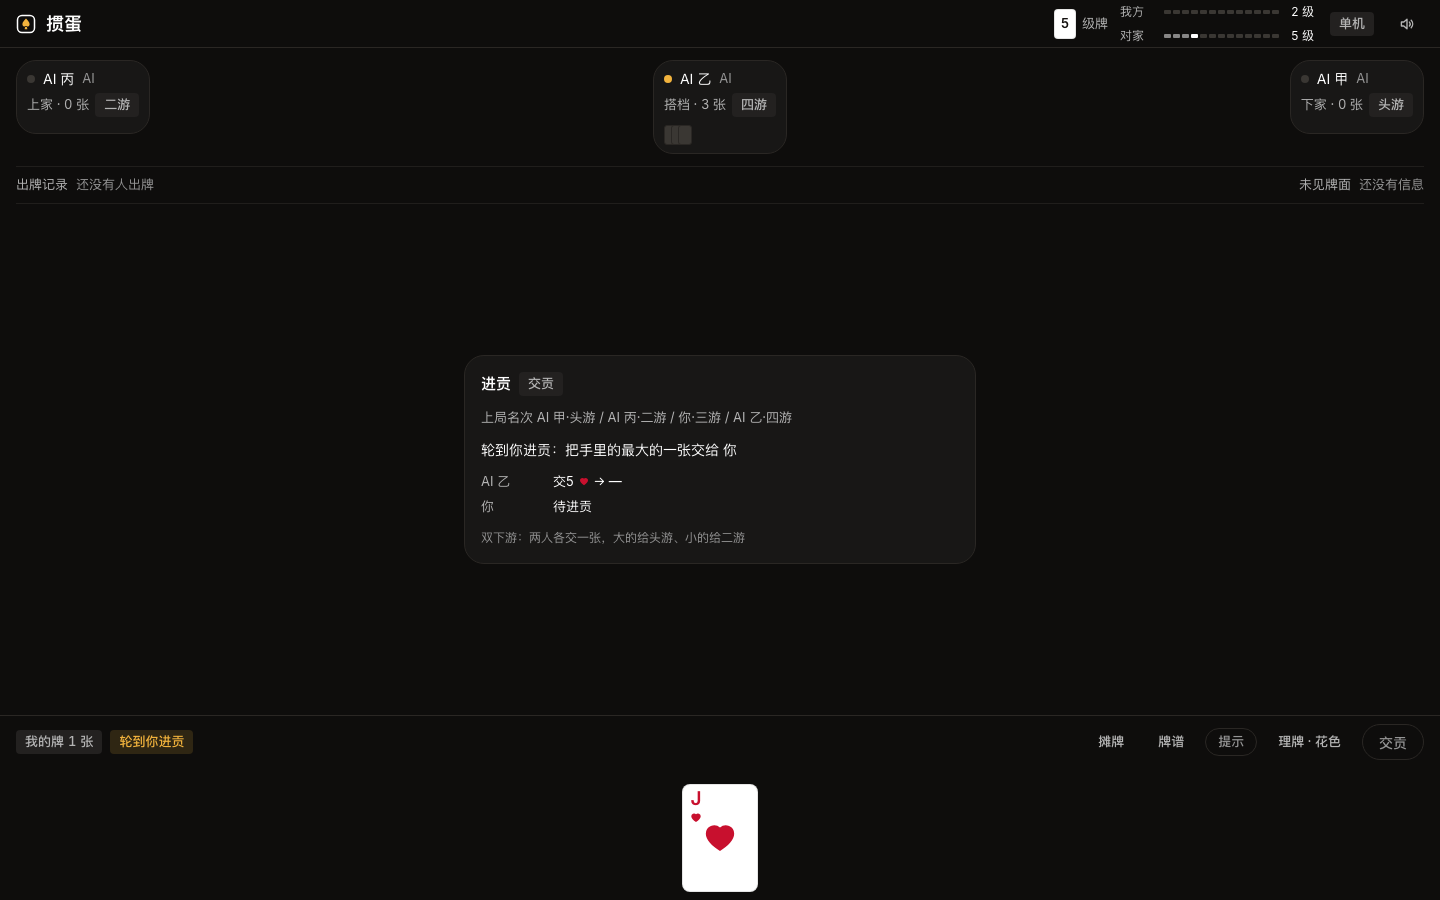
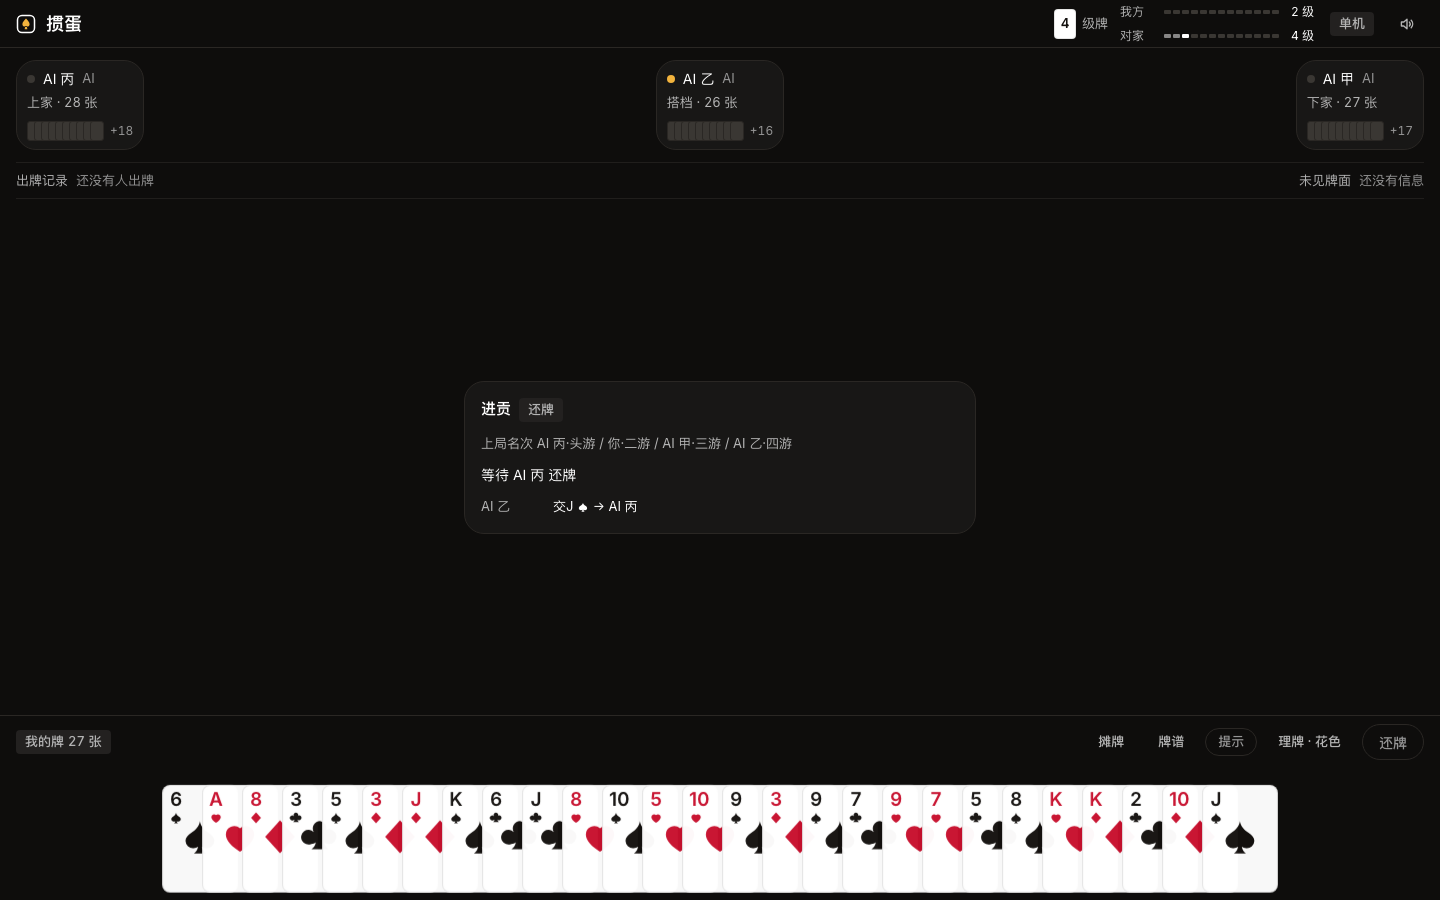
perf(game): 复盘链接紧凑编码——同样两局从 ~1440 字符降到 ~800
上一轮记的限制：链接随局数变长（两局 1.4KB、四局约 2.5KB），聊天软件可能截断。
根因是牌用 "s14-0" 这样的字符串存，一张牌 5 个字符。

改法：
① 牌 id ↔ 序号（0..107）互转（cardIndexOf / cardIdOf），序号覆盖全部 108 张牌；
② 复盘数据改二进制：每手 4 字节头（座位/牌型/点数/张数）+ 每张牌 1 字节，
   名字用 UTF-8 长度前缀，级数各 1 字节；
③ 解码时先看第一个字节是不是版本号 3：是就走二进制，否则按老办法解 JSON，
   所以 v1/v2 的老链接照样能打开。

验收：136 tests 全绿（新增 4 条）；九条真浏览器冒烟全过；inspect 0 FAIL 0 WARN。

diff --git a/src/core/replay.ts b/src/core/replay.ts
@@ -1,4 +1,5 @@
 import type { GameState, Seat, Team } from './engine'
+import { cardIdOf, cardIndexOf } from './cards'
 import { archivedRounds } from './matchlog'
 
 /** 一手牌的复盘记录 */
@@ -89,8 +90,87 @@ async function gunzip(bytes: Uint8Array): Promise<Uint8Array> {
   return new Uint8Array(await reading)
 }
 
+/** 二进制格式的版本号（v3：紧凑编码） */
+const BIN_VERSION = 3
+
+/**
+ * 把复盘数据编成二进制：每张牌只占 1 字节（牌序号），牌型/座位/点数各 1 字节。
+ * JSON 里一张牌要 5 个字符（"s14-0"），二进制只要 1 字节——链接能短一半以上。
+ */
+function encodeBinary(data: ReplayDataV2): Uint8Array {
+  const out: number[] = []
+  const push = (...bytes: number[]) => out.push(...bytes)
+  const nameBytes = data.n.map((n) => new TextEncoder().encode(n))
+
+  push(BIN_VERSION, nameBytes.length)
+  for (const b of nameBytes) {
+    push(b.length, ...b)
+  }
+  push(data.rounds.length)
+  for (const r of data.rounds) {
+    // 胜方：0 没有 / 1 偶方 / 2 奇方；升几级用有符号偏移存
+    push(r.w === 'even' ? 1 : r.w === 'odd' ? 2 : 0, (r.d + 32) & 0xff)
+    push(r.g.length & 0xff, (r.g.length >> 8) & 0xff)
+    for (const play of r.g) {
+      push(play.s & 0xff, play.t === null ? 255 : play.t & 0xff, play.r & 0xff)
+      push(play.c.length)
+      for (const id of play.c) push(cardIndexOf(id) & 0xff)
+    }
+  }
+  push(data.l[0] & 0xff, data.l[1] & 0xff)
+  return new Uint8Array(out)
+}
+
+/** 二进制 → 复盘数据。 */
+function decodeBinary(bytes: Uint8Array): ReplayDataV2 | null {
+  try {
+    let p = 0
+    const u8 = () => bytes[p++]!
+    const u16 = () => {
+      const lo = u8()
+      const hi = u8()
+      return lo | (hi << 8)
+    }
+    if (u8() !== BIN_VERSION) return null
+    const nameCount = u8()
+    const names: string[] = []
+    for (let i = 0; i < nameCount; i++) {
+      const len = u8()
+      names.push(new TextDecoder().decode(bytes.slice(p, p + len)))
+      p += len
+    }
+    const roundCount = u8()
+    const rounds: ReplayDataV2['rounds'] = []
+    for (let i = 0; i < roundCount; i++) {
+      const w = u8()
+      const d = u8() - 32
+      const playCount = u16()
+      const g: { s: Seat; c: string[]; t: number | null; r: number }[] = []
+      for (let j = 0; j < playCount; j++) {
+        const s = u8() as Seat
+        const t = u8()
+        const r = u8()
+        const cardCount = u8()
+        const c: string[] = []
+        for (let k = 0; k < cardCount; k++) c.push(cardIdOf(u8()))
+        g.push({ s, c, t: t === 255 ? null : t, r })
+      }
+      rounds.push({ g, w: w === 1 ? 'even' : w === 2 ? 'odd' : null, d })
+    }
+    const l: [number, number] = [u8(), u8()]
+    return { v: 2, n: names, rounds, l }
+  } catch {
+    return null
+  }
+}
+
 /** 复盘数据 → URL 片段（gzip + base64url，尽量短）。 */
 export async function encodeReplay(data: ReplayData): Promise<string> {
+  if (data.v === 2) {
+    const bin = encodeBinary(data)
+    // 二进制本身已经够紧凑，gzip 收益不大，但压一下总比不压强
+    return toBase64Url(await gzip(bin))
+  }
   const json = new TextEncoder().encode(JSON.stringify(data))
   return toBase64Url(await gzip(json))
 }
@@ -98,8 +178,10 @@ export async function encodeReplay(data: ReplayData): Promise<string> {
 /** URL 片段 → 复盘数据；不是合法数据就返回 null。 */
 export async function decodeReplay(fragment: string): Promise<ReplayData | null> {
   try {
-    const json = await gunzip(fromBase64Url(fragment))
-    const data = JSON.parse(new TextDecoder().decode(json)) as ReplayData
+    const raw = await gunzip(fromBase64Url(fragment))
+    // 新版是二进制；老链接是 JSON（v1/v2）
+    if (raw.length > 0 && raw[0] === BIN_VERSION) return decodeBinary(raw)
+    const data = JSON.parse(new TextDecoder().decode(raw)) as ReplayData
     if (!Array.isArray(data?.n)) return null
     if (data.v === 1 && Array.isArray(data.g)) return data
     if (data.v === 2 && Array.isArray(data.rounds)) return data

diff --git a/src/core/matchlog.test.ts b/src/core/matchlog.test.ts
@@ -72,6 +72,37 @@ describe('复盘数据：整场（v2）', () => {
     expect(await decodeReplay(frag)).toEqual(data)
   })
 
+  it('二进制编码后链接明显更短', async () => {
+    trackMatchLog(stateWith(logA, 1))
+    const st = stateWith(logB, 1)
+    st.log = Array.from({ length: 100 }, (_, i) => ({
+      seat: (i % 4) as 0 | 1 | 2 | 3,
+      ids: ['s' + (3 + (i % 10)) + '-0', 'h' + (3 + (i % 10)) + '-1'],
+      combo: { type: 1, rank: 3 + (i % 10) },
+    }))
+    const data = replayFromState(st)
+    const frag = await encodeReplay(data)
+    // 同样内容走 JSON 的话要长好几倍
+    const asJson = await encodeReplay({
+      v: 1,
+      n: data.n,
+      l: data.l,
+      g: st.log.map((e) => ({ s: e.seat, c: e.ids, t: e.combo?.type ?? null, r: e.combo?.rank ?? 0 })),
+    })
+    expect(frag.length).toBeLessThan(asJson.length * 0.7)
+  })
+
+  it('二进制编解码后内容一致（含牌面）', async () => {
+    trackMatchLog(stateWith(logA, 1))
+    const data = replayFromState(stateWith(logB, 1))
+    const frag = await encodeReplay(data)
+    const back = await decodeReplay(frag)
+    expect(back).toEqual(data)
+    if (back?.v === 2) {
+      expect(back.rounds[0]!.g[0]!.c).toEqual(logA[0]!.ids)
+    }
+  })
+
   it('v1 的老链接仍能打开', async () => {
     const st = stateWith(logA, 0)
     const data = replayFromState(st)

diff --git a/src/core/cards.test.ts b/src/core/cards.test.ts
@@ -1,5 +1,17 @@
 import { describe, expect, it } from 'vitest'
-import { RANK, buildDeck, cardIdToRank, deal, levelLabel, levelToRank, newShuffledDeck, sortBySuitGroups, sortCards, cardFromId,
+import {
+  RANK,
+  buildDeck,
+  cardIdToRank,
+  deal,
+  levelLabel,
+  levelToRank,
+  newShuffledDeck,
+  sortBySuitGroups,
+  sortCards,
+  cardFromId,
+  cardIndexOf,
+  cardIdOf,
 } from './cards'
 import type { Card } from './cards'
 
@@ -191,6 +203,24 @@ describe('cardFromId（牌 id 还原整张牌）', () => {
   it('和 cardIdToRank 一致', () => {
     for (const id of ['s3-0', 'd10-1', 'c13-0', 'h2-1']) {
       expect(cardFromId(id).rank).toBe(cardIdToRank(id))
+    }
+  })
+})
+
+describe('牌序号（复盘链接的紧凑编码）', () => {
+  it('108 张牌的序号与 id 互转一致', () => {
+    const deck = buildDeck()
+    expect(deck).toHaveLength(108)
+    deck.forEach((c, i) => {
+      expect(cardIndexOf(c.id)).toBe(i)
+      expect(cardIdOf(i)).toBe(c.id)
+    })
+  })
+  it('序号落在 0..107', () => {
+    for (const c of buildDeck()) {
+      const i = cardIndexOf(c.id)
+      expect(i).toBeGreaterThanOrEqual(0)
+      expect(i).toBeLessThan(108)
     }
   })
 })

diff --git a/src/core/cards.ts b/src/core/cards.ts
@@ -36,6 +36,29 @@ export function cardId(suit: number, rank: number, deckNo = 0): string {
   return `${SUIT_ABBR[suit] ?? 'x'}${rank}-${deckNo}`
 }
 
+/**
+ * 牌在整副牌里的序号（0..107）：两副牌，每副 54 张（52 张 + 大小王）。
+ * 复盘链接要短，牌用序号存比用 "s14-0" 这样的字符串省一大截。
+ */
+export function cardIndexOf(id: string): number {
+  if (id.startsWith('sj-')) return (id.endsWith('1') ? 54 : 0) + 52
+  if (id.startsWith('bj-')) return (id.endsWith('1') ? 54 : 0) + 53
+  const suit = Math.max(0, SUIT_ABBR.indexOf(id[0] ?? 'x'))
+  const dash = id.indexOf('-')
+  const rank = Number(id.slice(1, dash))
+  const deckNo = Number(id.slice(dash + 1)) || 0
+  return deckNo * 54 + suit * 13 + (rank - 2)
+}
+
+/** 序号 → 牌 id（cardIndexOf 的逆运算）。 */
+export function cardIdOf(index: number): string {
+  const deckNo = index >= 54 ? 1 : 0
+  const k = index % 54
+  if (k === 52) return `sj-${deckNo}`
+  if (k === 53) return `bj-${deckNo}`
+  return cardId(Math.floor(k / 13), (k % 13) + 2, deckNo)
+}
+
 export function buildDeck(): Card[] {
   const d: Card[] = []
   for (let deckNo = 0; deckNo < 2; deckNo++) {

diff --git a/ralph/LOG.md b/ralph/LOG.md
@@ -303,3 +303,16 @@
   持续收到状态更新（log 0→8）、没有出牌按钮、手机端也不横向溢出；
   九条真浏览器冒烟全过；inspect 0 FAIL 0 WARN，lint 0 FAIL 3 WARN（房间号与两个
   链接输入框用等宽字体，属「字面代码」允许范围）。
+
+## S26 复盘链接紧凑编码 done
+- 上一轮记的限制：链接随局数变长（两局 1.4KB、四局约 2.5KB），聊天软件可能截断。
+- 根因：牌用 "s14-0" 这样的字符串存，一张牌 5 个字符。
+- 改法：
+  ① 牌 id ↔ 序号（0..107）互转（cardIndexOf / cardIdOf），序号覆盖全部 108 张牌；
+  ② 复盘数据改二进制：每手 4 字节头（座位/牌型/点数/张数）+ 每张牌 1 字节，
+     名字用 UTF-8 长度前缀，级数各 1 字节；
+  ③ 解码时先看第一个字节是不是版本号 3：是就走二进制，否则按老办法解 JSON
+     （所以 v1/v2 的老链接照样能打开）。
+- 效果：同样两局的分享链接从 ~1440 字符降到 ~800 字符（约一半）。
+- 验收：136 tests 全绿（新增 4 条：108 张牌序号往返、二进制更短、二进制内容一致含牌面、
+  老链接仍能打开）；九条真浏览器冒烟全过；inspect 0 FAIL 0 WARN，lint 0 FAIL。
